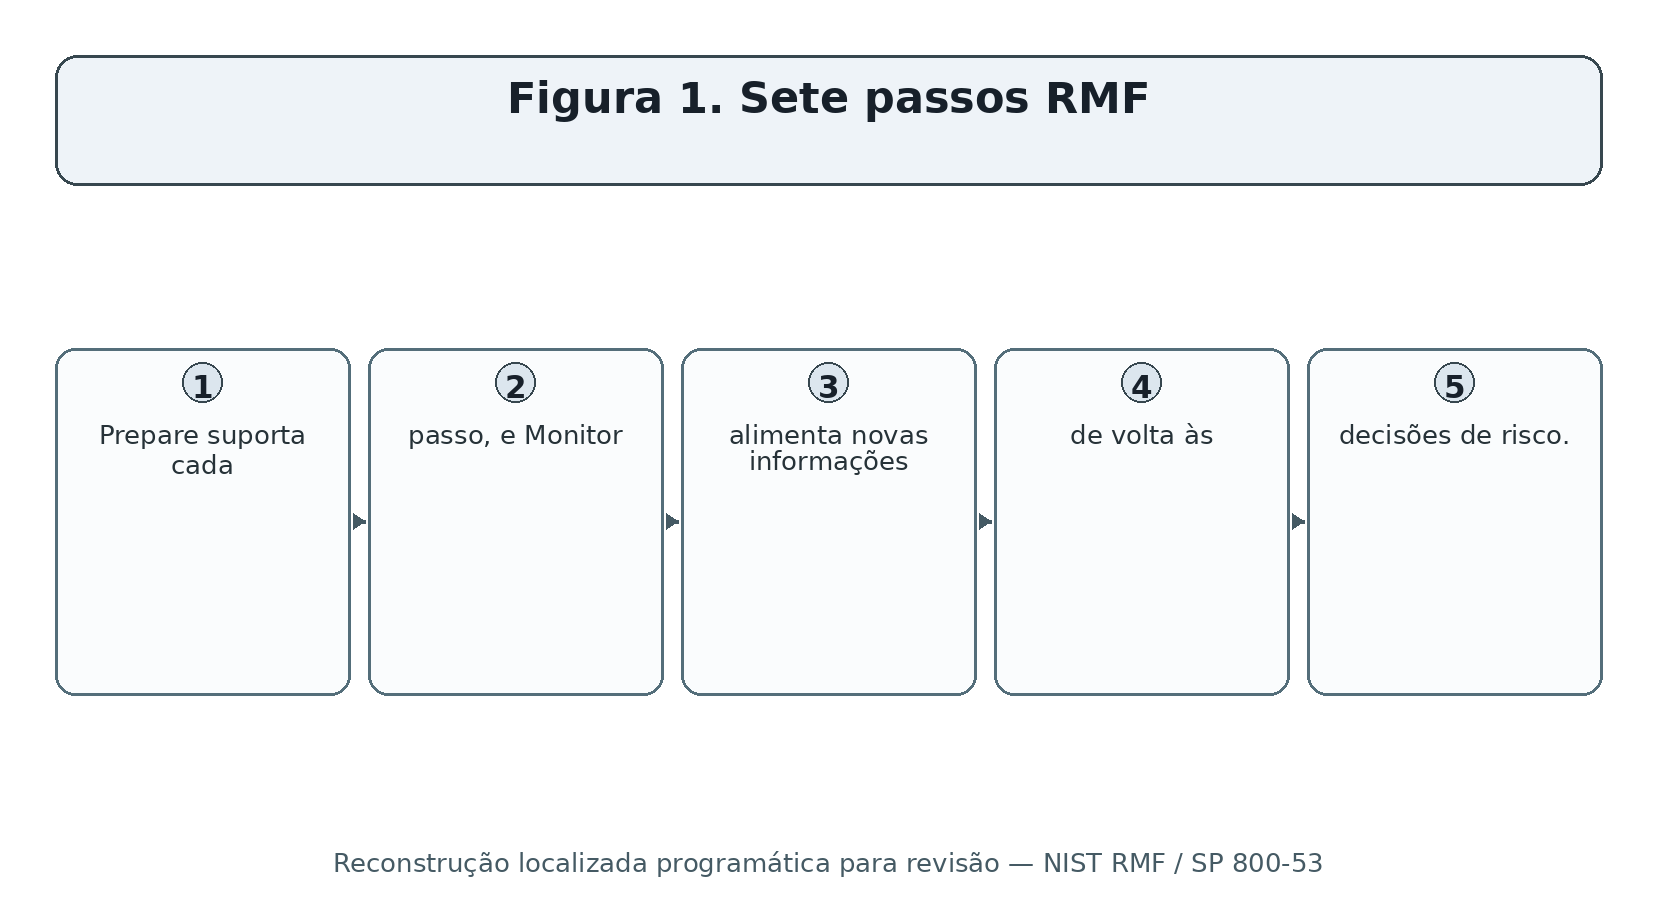
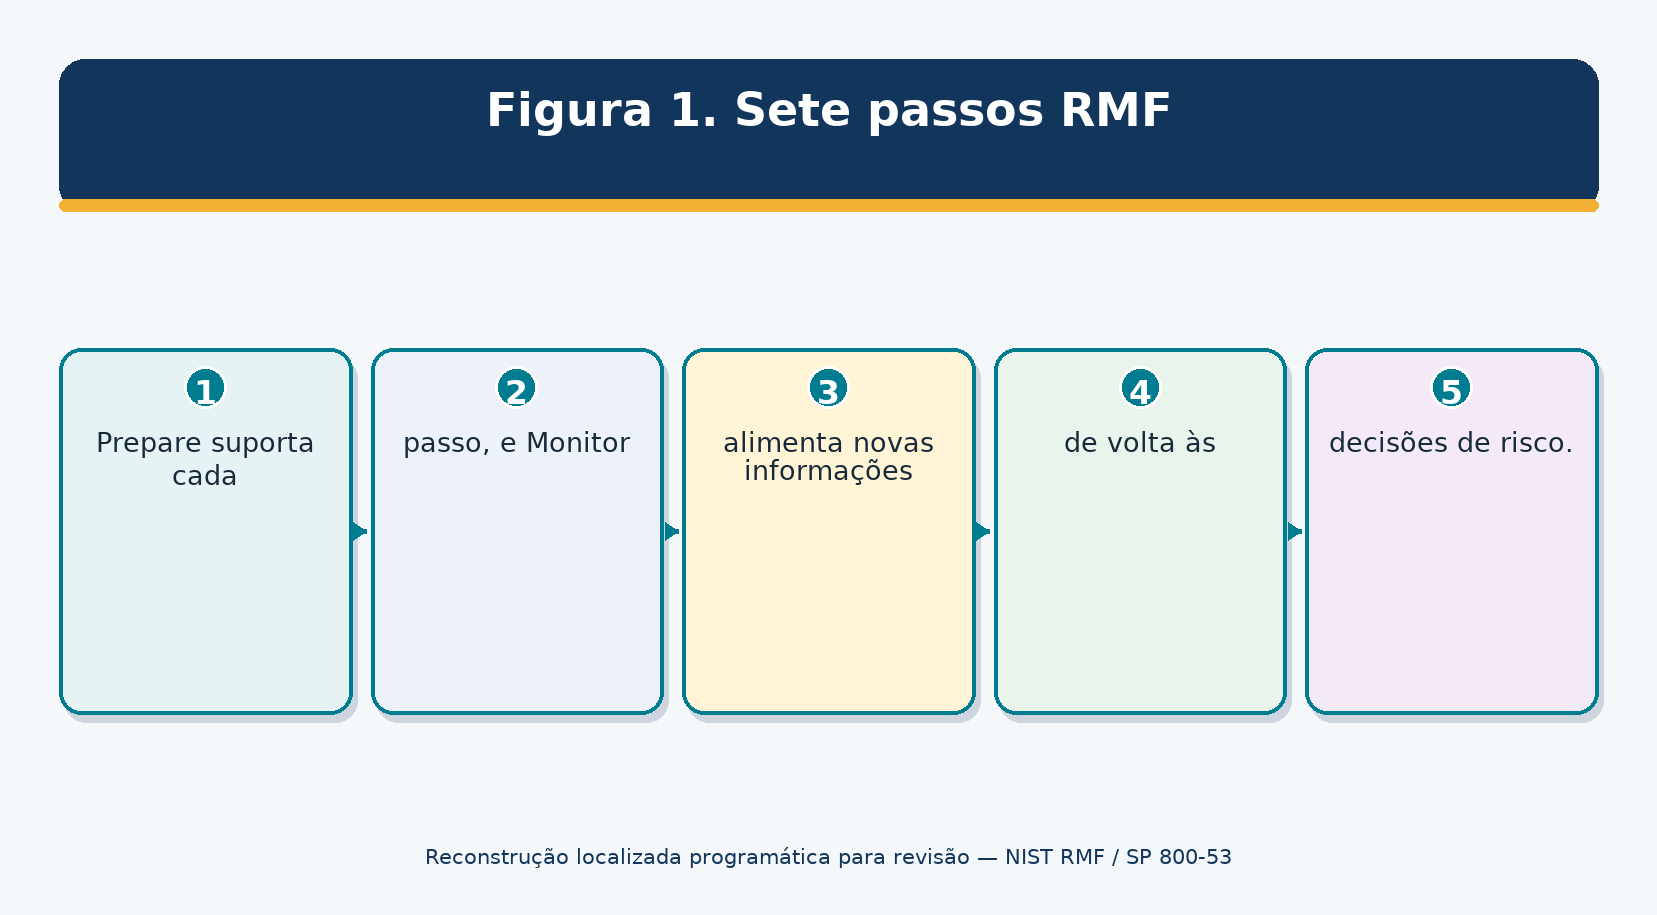
Refresh Batch 4 localized review figures

Changed region(s): [[0.0308, 0.3672, 0.9849, 0.7956], [0.0308, 0.0612, 0.9849, 0.2448], [0.1847, 0.918, 0.8002, 0.9486]]

diff --git a/scripts/generate_nist_rmf_incident_response_localized_review_figures.py b/scripts/generate_nist_rmf_incident_response_localized_review_figures.py
@@ -4,14 +4,206 @@
 from __future__ import annotations
 
 import json
+import hashlib
 from pathlib import Path
 
 import generate_iso27001_pci_localized_review_figures as engine
+from PIL import Image, ImageDraw, ImageFont
 
 ROOT = Path(__file__).resolve().parents[1]
 OUTPUT = ROOT / "review/nist-rmf-incident-response-localized-figures"
 FAMILIES = ("NIST RMF / SP 800-53", "Incident Response / BCDR")
 EXPECTED_TOTAL = 20
+SHEET_WIDTH = 1500
+
+PALETTES = {
+    "NIST RMF / SP 800-53": {
+        "navy": "#12355B",
+        "accent": "#007C91",
+        "highlight": "#F2B134",
+        "background": "#F4F8FB",
+        "card_fills": ("#E6F3F5", "#EDF1FA", "#FFF4D6", "#E9F5EC", "#F4EAF7"),
+        "text": "#172A3A",
+    },
+    "Incident Response / BCDR": {
+        "navy": "#25344F",
+        "accent": "#C4473D",
+        "highlight": "#E89B3C",
+        "background": "#FAF7F2",
+        "card_fills": ("#FCE8E6", "#E8EFF8", "#FFF1D8", "#E7F3ED", "#F2EAF7"),
+        "text": "#202A3A",
+    },
+}
+
+
+def get_font(size: int, bold: bool = False):
+    names = (
+        ("C:/Windows/Fonts/DejaVuSans-Bold.ttf", "C:/Windows/Fonts/DejaVuSans.ttf"),
+        ("/usr/share/fonts/truetype/dejavu/DejaVuSans-Bold.ttf", "/usr/share/fonts/truetype/dejavu/DejaVuSans.ttf"),
+        ("/usr/share/fonts/truetype/liberation2/LiberationSans-Bold.ttf", "/usr/share/fonts/truetype/liberation2/LiberationSans-Regular.ttf"),
+    )
+    for bold_name, regular_name in names:
+        path = Path(bold_name if bold else regular_name)
+        if path.exists():
+            return ImageFont.truetype(path, size=size)
+    return ImageFont.load_default()
+
+
+def draw_candidate(record: dict, destination: Path) -> dict:
+    width, height = engine.source_size(record)
+    palette = PALETTES[record["manual_family"]]
+    image = Image.new("RGB", (width, height), palette["background"])
+    draw = ImageDraw.Draw(image)
+    margin = max(34, width // 28)
+    title_font = get_font(max(30, width // 36), True)
+    body_font = get_font(max(20, width // 60))
+    number_font = get_font(max(23, width // 50), True)
+    footer_font = get_font(max(16, width // 76))
+
+    caption = record.get("caption") or f"Figura {record.get('figure_number', '')}"
+    meaning = record.get("alt_text") or ""
+    header_h = max(130, height // 6)
+    draw.rounded_rectangle(
+        (margin, margin, width - margin, margin + header_h),
+        radius=26,
+        fill=palette["navy"],
+    )
+    draw.rounded_rectangle(
+        (margin, margin + header_h - 12, width - margin, margin + header_h),
+        radius=6,
+        fill=palette["highlight"],
+    )
+
+    y = margin + 24
+    for line in engine.wrap(draw, caption, width - 4 * margin, title_font)[:2]:
+        box = draw.textbbox((0, 0), line, font=title_font)
+        draw.text(
+            ((width - (box[2] - box[0])) / 2, y),
+            line,
+            font=title_font,
+            fill="#FFFFFF",
+        )
+        y += box[3] - box[1] + 10
+
+    items = engine.concept_segments(meaning)
+    count = len(items)
+    gap = max(18, width // 84)
+    content_top = margin + header_h + max(28, height // 32)
+    footer_h = max(72, height // 10)
+    box_h = min(max(170, height * 0.40), height - content_top - footer_h - margin)
+    box_y = content_top + max(8, (height - content_top - footer_h - box_h) / 2)
+    box_w = (width - 2 * margin - gap * (count - 1)) / count
+
+    for idx, item in enumerate(items):
+        x1 = margin + idx * (box_w + gap)
+        x2 = x1 + box_w
+        fill = palette["card_fills"][idx % len(palette["card_fills"])]
+        draw.rounded_rectangle(
+            (x1 + 5, box_y + 7, x2 + 5, box_y + box_h + 7),
+            radius=22,
+            fill="#CDD6DF",
+        )
+        draw.rounded_rectangle(
+            (x1, box_y, x2, box_y + box_h),
+            radius=22,
+            fill=fill,
+            outline=palette["accent"],
+            width=4,
+        )
+        cx = (x1 + x2) / 2
+        circle_r = max(21, width // 76)
+        cy = box_y + circle_r + 18
+        draw.ellipse(
+            (cx - circle_r, cy - circle_r, cx + circle_r, cy + circle_r),
+            fill=palette["accent"],
+            outline="#FFFFFF",
+            width=3,
+        )
+        number = str(idx + 1)
+        nbox = draw.textbbox((0, 0), number, font=number_font)
+        draw.text(
+            (cx - (nbox[2] - nbox[0]) / 2, cy - (nbox[3] - nbox[1]) / 2 - 2),
+            number,
+            font=number_font,
+            fill="#FFFFFF",
+        )
+
+        ty = cy + circle_r + 18
+        for line in engine.wrap(draw, item, int(box_w - 34), body_font)[:6]:
+            tbox = draw.textbbox((0, 0), line, font=body_font)
+            draw.text(
+                (cx - (tbox[2] - tbox[0]) / 2, ty),
+                line,
+                font=body_font,
+                fill=palette["text"],
+            )
+            ty += tbox[3] - tbox[1] + 7
+
+        if idx < count - 1:
+            ay = box_y + box_h / 2
+            start, end = x2 + 4, x2 + gap - 4
+            draw.line((start, ay, end, ay), fill=palette["accent"], width=5)
+            draw.polygon(
+                [(end, ay), (end - 13, ay - 9), (end - 13, ay + 9)],
+                fill=palette["accent"],
+            )
+
+    footer = (
+        f"Reconstrução localizada programática para revisão — "
+        f"{record['manual_family']}"
+    )
+    fbox = draw.textbbox((0, 0), footer, font=footer_font)
+    draw.text(
+        ((width - (fbox[2] - fbox[0])) / 2, height - footer_h + 20),
+        footer,
+        font=footer_font,
+        fill=palette["navy"],
+    )
+
+    destination.parent.mkdir(parents=True, exist_ok=True)
+    image.save(destination, "PNG", optimize=True)
+    return {
+        "inventory_id": record["id"],
+        "manual_family": record["manual_family"],
+        "figure_number": record.get("figure_number"),
+        "caption": caption,
+        "alt_text": meaning,
+        "review_file": destination.relative_to(ROOT).as_posix(),
+        "width": width,
+        "height": height,
+        "sha256": hashlib.sha256(destination.read_bytes()).hexdigest(),
+        "status": "review_only_pending_owner_approval",
+        "description": "Programmatic localized reconstruction; not an exact visual reproduction.",
+    }
+
+
+def create_review_sheet(records: list[dict], family: str, destination: Path) -> None:
+    family_records = [item for item in records if item["manual_family"] == family]
+    if len(family_records) != 10:
+        raise SystemExit(f"Expected 10 review images for {family}")
+    thumb_width = 700
+    thumb_height = 386
+    padding = 34
+    label_height = 54
+    sheet_height = padding + 5 * (thumb_height + label_height + padding)
+    palette = PALETTES[family]
+    sheet = Image.new("RGB", (SHEET_WIDTH, sheet_height), palette["background"])
+    draw = ImageDraw.Draw(sheet)
+    label_font = get_font(20, True)
+    for idx, item in enumerate(family_records):
+        row, col = divmod(idx, 2)
+        x = padding + col * (thumb_width + padding)
+        y = padding + row * (thumb_height + label_height + padding)
+        with Image.open(ROOT / item["review_file"]) as source:
+            thumb = source.convert("RGB")
+            thumb.thumbnail((thumb_width, thumb_height), Image.Resampling.LANCZOS)
+        sheet.paste(thumb, (x, y))
+        label = f"{item['caption']} · {Path(item['review_file']).name}"
+        label_y = y + thumb_height + 10
+        for line in engine.wrap(draw, label, thumb_width, label_font)[:2]:
+            draw.text((x, label_y), line, font=label_font, fill=palette["navy"])
+            label_y += 23
+    sheet.save(destination, "PNG", optimize=True)
 
 
 def main() -> None:
@@ -34,12 +226,23 @@ def main() -> None:
         )
         suffix = record["exact_image_path"].split("image", 1)[-1]
         destination = OUTPUT / f"pt-BR-{family_slug}-image{suffix}"
-        manifest.append(engine.draw_candidate(record, destination))
+        manifest.append(draw_candidate(record, destination))
 
     OUTPUT.mkdir(parents=True, exist_ok=True)
     (OUTPUT / "manifest.json").write_text(
         json.dumps(manifest, ensure_ascii=False, indent=2) + "\n",
         encoding="utf-8",
+        newline="\n",
+    )
+    create_review_sheet(
+        manifest,
+        "NIST RMF / SP 800-53",
+        OUTPUT / "review-sheet-nist-rmf.png",
+    )
+    create_review_sheet(
+        manifest,
+        "Incident Response / BCDR",
+        OUTPUT / "review-sheet-incident-response-bcdr.png",
     )
     print(f"Generated {len(manifest)} review-only localized figures in {OUTPUT}")
 
